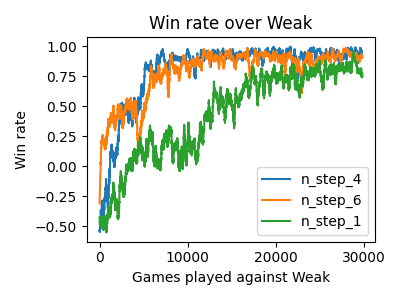
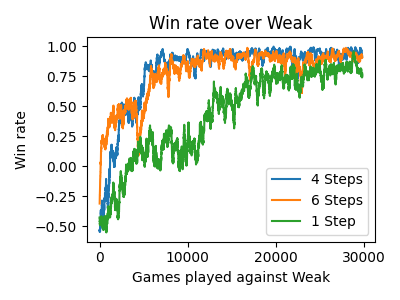
better names and updated plots

diff --git a/src/hockey-env/plots_for_report.py b/src/hockey-env/plots_for_report.py
@@ -65,6 +65,7 @@ def plot_rewards(agents_names, episodes = 5000, name = "rewards"):
     plt.title('Rewards over episodes')
     save_path = os.path.join(plots_dir, f"{name}.png")
     plt.legend()
+   
     plt.tight_layout()
     plt.savefig(save_path)
     print(f"Plot saved at {save_path}")
@@ -94,16 +95,17 @@ def plot_winrate(agents, name, opponent_name, opponent_idx, chunk_size=200, game
 
 
 
-plot_rewards([(tournament_agent_path, "n_step_4"),(n_step_6_path, "n_step_6"),(n_step_1_path, "n_step_1") ], episodes = int(5000), name = "rewards_n_steps")
-plot_rewards([(prio_alpha_04, "alpha_0.4_beta_06"),(prio_alpha_02_beta_04, "alpha_0.2_beta_0.4"),(no_prio_n_4, "no_prio_n_4"), (tournament_agent_path, "alpha_02_beta_06"), (classic_dqn, "classic dqn") ], episodes = int(1500), name = "rewards_alpha_beta")
+plot_rewards([(tournament_agent_path, "4 Steps"),(n_step_6_path, "6 Steps"),(n_step_1_path, "1 Step") ], episodes = int(5000), name = "rewards_n_steps")
+plot_rewards([(prio_alpha_04, "Alpha:0.4 Beta:0.6"),(prio_alpha_02_beta_04, "Alpha:0.2 Beta:0.4"), (tournament_agent_path, "Alpha:0.2 Beta:0.6"), (classic_dqn, "DQN") ], episodes = int(1500), name = "rewards_alpha_beta")
+plot_rewards([(tournament_agent_path, "4 N steps with PER "),(no_prio_n_4, "4 N steps without PER"), (classic_dqn, "DQN")], episodes = int(2000), name = "rewards_no_prio")
 
-plot_rewards([(Combined_n_4, "Combined_n_4"),(tournament_agent_path, "prioritized"), (classic_dqn, "dqn")], episodes = int(2000), name = "rewards_vs_combined")
+plot_rewards([(Combined_n_4, "Combined"),(tournament_agent_path, "PER + 4-Step"), (classic_dqn, "DQN")], episodes = int(2000), name = "rewards_vs_combined")
 plot_rewards([(Combined_n_4,"50 games"),(Combined_n_4_ten_games, "10 games")], episodes = int(2000), name = "rewards_combined_vs_ten_games")
 
 plot_rewards([(bigger_lr, "bigger_lr"),(bigger_nn, "bigger_nn"), (Combined_n_4, "Combined_n_4")], episodes = int(2000), name = "rewards_bigger_lr_nn")
 
-plot_winrate([(tournament_agent_path, "n_step_4"),(n_step_6_path, "n_step_6"),(n_step_1_path, "n_step_1") ], opponent_name=  "Weak", opponent_idx = 1, name = "win_rate_n_steps")
-plot_winrate([(prio_alpha_04, "alpha_0.4_beta_06"),(prio_alpha_02_beta_04, "alpha_0.2_beta_0.4"),(no_prio_n_4, "no_prio_n_4"), (tournament_agent_path, "alpha_02_beta_06"), (classic_dqn, "classic dqn") ], games = 12000, opponent_name=  "Weak", opponent_idx = 1, name = "win_rate_alpha_beta")
-plot_winrate([(Combined_n_4, "Combined_n_4"),(tournament_agent_path, "prioritized"), (classic_dqn, "dqn")], opponent_name=  "Weak", opponent_idx = 1, name = "win_rate_vs_combined", games = 12000)
+plot_winrate([(tournament_agent_path, "4 Steps"),(n_step_6_path, "6 Steps"),(n_step_1_path, "1 Step") ], opponent_name=  "Weak", opponent_idx = 1, name = "win_rate_n_steps")
+plot_winrate([(prio_alpha_04,  "Alpha:0.4 Beta:0.6"),(prio_alpha_02_beta_04,  "Alpha:0.2 Beta:0.4"), (tournament_agent_path, "Alpha:0.2 Beta:0.6"), (classic_dqn, "DQN") ], games = 12000, opponent_name=  "Weak", opponent_idx = 1, name = "win_rate_alpha_beta")
+plot_winrate([(Combined_n_4, "Combined"),(tournament_agent_path, "PER + 4-Step"), (classic_dqn, "DQN")], opponent_name=  "Weak", opponent_idx = 1, name = "win_rate_vs_combined", games = 12000)
 plot_winrate([(Combined_n_4,"50 games"),(Combined_n_4_ten_games, "10 games")], opponent_name=  "Weak", opponent_idx = 1, name = "win_rate_combined_vs_ten_games", games=8000)
 plot_winrate([(bigger_lr, "bigger_lr"),(bigger_nn, "bigger_nn"), (Combined_n_4, "Combined_n_4")], opponent_name=  "Weak", opponent_idx = 1, name = "win_rate_bigger_lr_nn")
